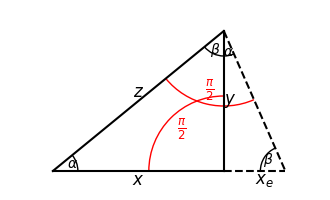
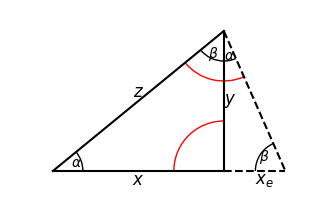
Fixing figure 3

diff --git a/dev/source/distance-formula-2D.py b/dev/source/distance-formula-2D.py
@@ -31,12 +31,12 @@ def plot_all_triangles():
     plot_line(B, x_ext_point, style='k--')
     
     ax = plt.gca()
-    AngleAnnotation(A, C, B, size=50, ax=ax, text=r"$\alpha$", textposition="inside")
-    AngleAnnotation(B, C, x_ext_point, size=50,ax=ax, text=r"$\alpha$", textposition="inside")
-    AngleAnnotation(B, A, C, size=50, ax=ax, text=r"$\beta$", textposition="inside")
-    AngleAnnotation(x_ext_point, B, C, size=50, ax=ax, text=r"$\beta$", textposition="inside")
-    AngleAnnotation(C, B, A, size=150, ax=ax, text=r"$\frac{\pi}{2}$", textposition="inside",  color="red", text_kw=dict(fontsize=12, color="red"))
-    AngleAnnotation(B, A, x_ext_point, size=150, ax=ax, text=r"$\frac{\pi}{2}$", textposition="inside", color="red", text_kw=dict(fontsize=12, color="red"))
+    AngleAnnotation(A, C, B, size=60, ax=ax, text=r"$\alpha$", textposition="inside")
+    AngleAnnotation(B, C, x_ext_point, size=60,ax=ax, text=r"$\alpha$", textposition="inside")
+    AngleAnnotation(B, A, C, size=60, ax=ax, text=r"$\beta$", textposition="inside")
+    AngleAnnotation(x_ext_point, B, C, size=60, ax=ax, text=r"$\beta$", textposition="inside")
+    AngleAnnotation(C, B, A, size=100, ax=ax, color="red")
+    AngleAnnotation(B, A, x_ext_point, size=100, ax=ax, color="red")
 
 # ========== UTILITY ============= #
 def plot_setup():
